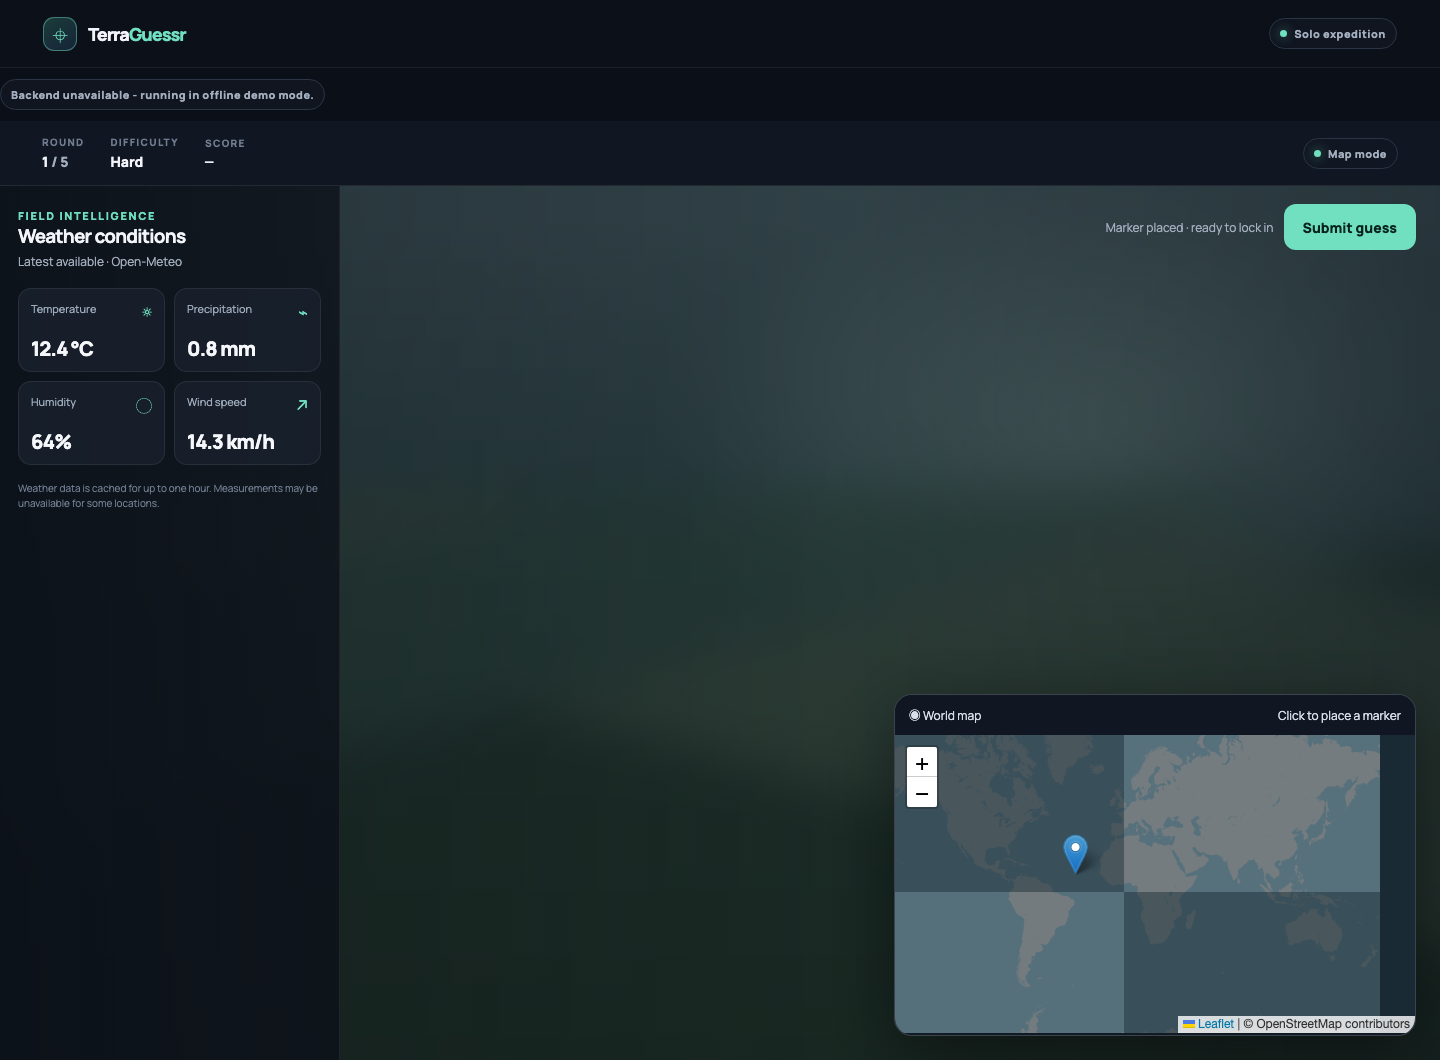
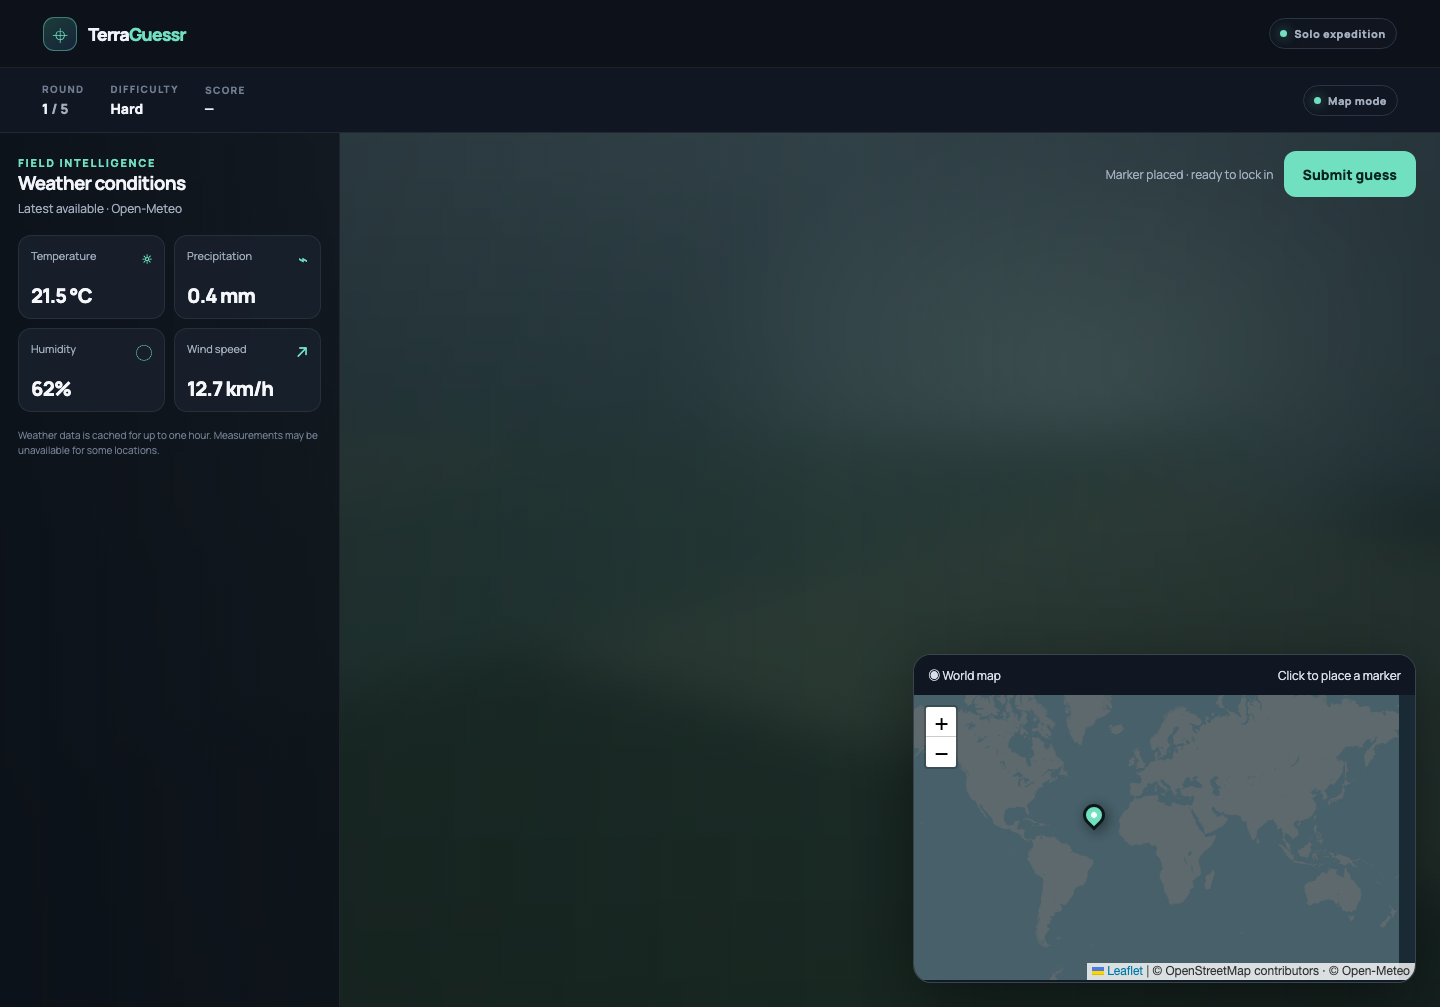
fix: preserve accessible labels and production map markers

diff --git a/frontend/src/styles/design-system.css b/frontend/src/styles/design-system.css
@@ -99,13 +99,16 @@ button:focus-visible, a:focus-visible, input:focus-visible, select:focus-visible
 .tg-weather-grid { display: grid; grid-template-columns: 1fr 1fr; gap: 9px; }
 .tg-weather-cell { min-height: 84px; padding: 12px; display: flex; flex-direction: column; justify-content: space-between; border: 1px solid rgb(255 255 255 / 8%); border-radius: 13px; background: rgb(24 32 44 / 82%); }
 .tg-weather-label { color: #9eacbd; font-size: 11px; }.tg-weather-value { color: #f5f7fb; font-size: 20px; line-height: 1; font-weight: 800; letter-spacing: -.04em; }.tg-weather-value small { color: #a8b6c6; font-size: 11px; font-weight: 600; letter-spacing: 0; }
-.tg-weather-icon { float: right; color: var(--tg-mint); font-size: 16px; }
+.tg-weather-label::after { content: attr(data-icon); float: right; color: var(--tg-mint); font-size: 16px; }
 .tg-attribution { margin-top: 16px; color: var(--tg-soft); font-size: 10px; line-height: 1.5; }
 .tg-game-area { position: relative; z-index: 2; min-width: 0; min-height: 540px; padding: 24px; display: flex; align-items: flex-end; justify-content: flex-end; }
 .tg-map-dock { width: min(460px, 52vw); height: 300px; border: 1px solid rgb(255 255 255 / 18%); border-radius: 18px; overflow: hidden; background: #111b25; box-shadow: 0 20px 70px rgb(0 0 0 / 45%); transition: width 220ms ease, height 220ms ease; }
 .tg-map-dock:focus-within, .tg-map-dock:hover { width: min(580px, 64vw); height: 380px; }
 .tg-map-dock [data-testid='map-picker'] { height: calc(100% - 42px) !important; min-height: 0 !important; }
 .tg-map-dock .leaflet-container { background: #192a34; }
+.tg-map-pin { border: 0; background: transparent; }
+.tg-map-pin span { display: block; width: 22px; height: 22px; margin: 5px 0 0 3px; border: 3px solid #0b1718; border-radius: 50% 50% 50% 0; background: var(--tg-mint); box-shadow: 0 4px 14px rgb(0 0 0 / 50%); transform: rotate(-45deg); }
+.tg-map-pin span::after { content: ''; position: absolute; inset: 5px; border-radius: 50%; background: #f2fffb; }
 .tg-map-label { padding: 11px 14px; display: flex; justify-content: space-between; align-items: center; background: #111722; color: #d8dfeb; font-size: 12px; }
 .tg-guess-footer { position: absolute; right: 24px; top: 18px; display: flex; gap: 10px; align-items: center; }
 .tg-selection-panel { position: relative; z-index: 2; width: min(650px, 100%); margin: auto; padding: clamp(18px, 3vw, 30px); border: 1px solid rgb(255 255 255 / 14%); border-radius: 22px; background: rgb(14 20 29 / 92%); backdrop-filter: blur(18px); box-shadow: var(--tg-shadow); }
@@ -128,7 +131,7 @@ button:focus-visible, a:focus-visible, input:focus-visible, select:focus-visible
 @media (max-width: 640px) {
   .tg-topbar { height: 60px; padding: 0 12px; gap: 8px; }.tg-brand-name { font-size: 16px; }.tg-brand-mark { width: 31px; height: 31px; }.tg-nav { gap: 1px; }.tg-nav a, .tg-nav button { min-height: 36px; width: 36px; padding: 0; font-size: 15px; }.tg-main { padding: 18px 14px; }
   .tg-hero { min-height: calc(100vh - 60px); padding: 46px 22px; }.tg-hero h1 { font-size: clamp(48px, 14vw, 72px); }.tg-hero-orbit { min-height: 250px; }.tg-globe { width: min(66vw, 250px); }.tg-orbit-tag { font-size: 10px; padding: 8px; }.tg-orbit-tag.one { left: 0; }.tg-orbit-tag.two { right: 0; }
-  .tg-game { min-height: calc(100vh - 60px); }.tg-game-top { align-items: flex-start; padding: 10px 13px; }.tg-game-stats { gap: 9px 16px; }.tg-stat-label { font-size: 8px; }.tg-stat-value { font-size: 12px; }.tg-game-stage { display: flex; flex-direction: column; min-height: calc(100vh - 111px); }.tg-panorama { position: fixed; top: 111px; bottom: 0; }.tg-hud { padding: 14px; border-right: 0; border-bottom: 1px solid rgb(255 255 255 / 8%); background: rgb(12 17 25 / 93%); }.tg-hud-title { font-size: 16px; }.tg-hud-subtitle { margin-bottom: 10px; }.tg-weather-grid { grid-template-columns: repeat(4, minmax(0, 1fr)); gap: 6px; }.tg-weather-cell { min-height: 71px; padding: 8px; }.tg-weather-label { font-size: 9px; }.tg-weather-value { font-size: 16px; }.tg-weather-value small { font-size: 9px; }.tg-weather-icon { display: none; }.tg-attribution { margin-top: 8px; }
+  .tg-game { min-height: calc(100vh - 60px); }.tg-game-top { align-items: flex-start; padding: 10px 13px; }.tg-game-stats { gap: 9px 16px; }.tg-stat-label { font-size: 8px; }.tg-stat-value { font-size: 12px; }.tg-game-stage { display: flex; flex-direction: column; min-height: calc(100vh - 111px); }.tg-panorama { position: fixed; top: 111px; bottom: 0; }.tg-hud { padding: 14px; border-right: 0; border-bottom: 1px solid rgb(255 255 255 / 8%); background: rgb(12 17 25 / 93%); }.tg-hud-title { font-size: 16px; }.tg-hud-subtitle { margin-bottom: 10px; }.tg-weather-grid { grid-template-columns: repeat(4, minmax(0, 1fr)); gap: 6px; }.tg-weather-cell { min-height: 71px; padding: 8px; }.tg-weather-label { font-size: 9px; }.tg-weather-value { font-size: 16px; }.tg-weather-value small { font-size: 9px; }.tg-weather-label::after { display: none; }.tg-attribution { margin-top: 8px; }
   .tg-game-area { min-height: 420px; padding: 14px; align-items: flex-end; }.tg-map-dock, .tg-map-dock:hover, .tg-map-dock:focus-within { width: 100%; height: min(48vh, 330px); }.tg-map-label { padding: 9px 11px; }.tg-guess-footer { position: absolute; right: 14px; bottom: auto; top: 12px; }.tg-selection-panel { margin: 12px 0; padding: 16px; }.tg-candidate-list { grid-template-columns: 1fr; gap: 7px; margin-top: 12px; }.tg-candidate { min-height: 64px; padding: 10px; }.tg-submit-row { align-items: stretch; flex-direction: column; }.tg-submit-row .tg-button { width: 100%; }
 }
 @media (prefers-reduced-motion: reduce) { *, *::before, *::after { scroll-behavior: auto !important; animation-duration: .01ms !important; animation-iteration-count: 1 !important; transition-duration: .01ms !important; } }

diff --git a/frontend/src/features/map/MapPicker.tsx b/frontend/src/features/map/MapPicker.tsx
@@ -1,4 +1,5 @@
 import type { DragEndEvent, LeafletMouseEvent, Marker as LeafletMarker } from 'leaflet';
+import { divIcon } from 'leaflet';
 import { MapContainer, Marker, TileLayer, useMapEvents } from 'react-leaflet';
 import type { LatLon } from '../../api/types';
 import 'leaflet/dist/leaflet.css';
@@ -20,6 +21,14 @@ export const DEFAULT_TILE_URL = 'https://{s}.tile.openstreetmap.org/{z}/{x}/{y}.
 export const DEFAULT_MAP_ATTRIBUTION = '© OpenStreetMap contributors';
 export const DEFAULT_MAP_CENTER: LatLon = { lat: 20, lon: 0 };
 export const DEFAULT_MAP_ZOOM = 2;
+
+/** Inline marker avoids broken default Leaflet image URLs in production builds. */
+const GUESS_MARKER_ICON = divIcon({
+  className: 'tg-map-pin',
+  html: '<span aria-hidden="true"></span>',
+  iconSize: [28, 38],
+  iconAnchor: [14, 36],
+});
 
 /** WGS84 LatLon -> Leaflet LatLngTuple ([lat, lng]). */
 function toTuple({ lat, lon }: LatLon): [number, number] {
@@ -80,6 +89,7 @@ export function MapPicker({
         {guess ? (
           <Marker
             position={toTuple(guess)}
+            icon={GUESS_MARKER_ICON}
             draggable
             eventHandlers={{ dragend: handleMarkerDragEnd }}
           />

diff --git a/e2e/phase1-visual.spec.ts b/e2e/phase1-visual.spec.ts
@@ -3,14 +3,6 @@ import { mkdir } from 'node:fs/promises';
 
 const evidence = 'docs/screenshots';
 
-test.beforeEach(async ({ page }) => {
-  // Offline API fallback remains a supported developer path and provides a
-  // deterministic real UI without requiring credentials or a Docker stack.
-  await page.route('**/*', (route) =>
-    new URL(route.request().url()).pathname.startsWith('/api/') ? route.abort() : route.continue(),
-  );
-});
-
 test('desktop landing and easy round', async ({ page }) => {
   await mkdir(evidence, { recursive: true });
   await page.setViewportSize({ width: 1440, height: 1000 });
@@ -57,6 +49,7 @@ test('map mode confirms guesses from the map without coordinate form fields', as
   await expect(submit).toBeDisabled();
   await map.click({ position: { x: 180, y: 140 } });
   await expect(submit).toBeEnabled();
+  await expect(map.locator('.tg-map-pin')).toBeVisible();
   await expect(page.getByLabel('Latitude')).toHaveCount(0);
   await expect(page.getByLabel('Longitude')).toHaveCount(0);
   await page.screenshot({ path: `${evidence}/phase1-desktop-map.png`, fullPage: true });

diff --git a/e2e/change-guess.spec.ts b/e2e/change-guess.spec.ts
@@ -42,12 +42,14 @@ test.describe('guess can be changed before final submit (R08)', () => {
     await expect(map).toBeVisible();
 
     await map.click({ position: { x: 150, y: 120 } });
-    const latAfterFirst = await page.locator('#guess-latitude').inputValue();
+    const marker = map.locator('.leaflet-marker-icon');
+    await expect(marker).toHaveCount(1);
+    const markerAfterFirst = await marker.getAttribute('style');
 
     // Change the guess to a different point before submitting.
     await map.click({ position: { x: 320, y: 220 } });
-    const latAfterSecond = await page.locator('#guess-latitude').inputValue();
-    expect(latAfterSecond).not.toBe(latAfterFirst);
+    const markerAfterSecond = await marker.getAttribute('style');
+    expect(markerAfterSecond).not.toBe(markerAfterFirst);
 
     await page.getByRole('button', { name: 'Submit guess' }).click();
     await expect(page.getByTestId(testIds.revealView)).toBeVisible();

diff --git a/frontend/src/components/WeatherPanel.tsx b/frontend/src/components/WeatherPanel.tsx
@@ -22,7 +22,7 @@ export function WeatherPanel({ weather }: WeatherPanelProps) {
       <dl className="tg-weather-grid">
         {WEATHER_FIELDS.map(({ key, label, unit }) => (
           <div key={key} className="tg-weather-cell">
-            <dt className="tg-weather-label">{label}<span className="tg-weather-icon" aria-hidden="true">{key === 'temperatureC' ? '☼' : key === 'precipitationMm' ? '⌁' : key === 'humidityPct' ? '◌' : '↗'}</span></dt>
+            <dt className="tg-weather-label" data-icon={key === 'temperatureC' ? '☼' : key === 'precipitationMm' ? '⌁' : key === 'humidityPct' ? '◌' : '↗'}>{label}</dt>
             <dd className="tg-weather-value" style={{ margin: 0 }}>{weather[key]}{unit}</dd>
           </div>
         ))}

diff --git a/docs/TERRAGUESSR-2.0-PROGRESS.md b/docs/TERRAGUESSR-2.0-PROGRESS.md
@@ -25,7 +25,9 @@ Work is on the recoverable `feature/terraguessr-v2` branch. The preserved R01–
 - Frontend Vitest: 40 passing.
 - Frontend typecheck, lint and production build: passed.
 - Backend unit tests: 154 passing; backend typecheck, lint and build: passed.
+- Backend integration tests against isolated PostgreSQL: 20 passing.
 - Playwright: 3 passing (desktop candidate round, 375px mobile no-overflow, map marker and confirmation interaction).
+- Full Playwright E2E suite against a clean isolated Docker Compose stack: 17 passing (including R04 network checks, weather fallback, async multiplayer challenge, and round/map flows).
 - Screenshots reviewed at 1440px and 375px. No raw coordinate fields or duplicate Easy labels; map and candidate submission are functional.
 
 ## Baseline

diff --git a/docs/screenshots/README.md b/docs/screenshots/README.md
@@ -1,6 +1,6 @@
 # Phase 1 browser evidence
 
-Captured from the running Vite application using Chromium. The game screenshots use the application's explicit offline development data source because no backend stack was running during capture.
+Captured from the running application using Chromium against an isolated Docker Compose stack with deterministic test weather.
 
 - `phase1-desktop-home.png` — 1440px landing page.
 - `phase1-desktop-game.png` — 1440px Easy mode with five distinguishable choices.
